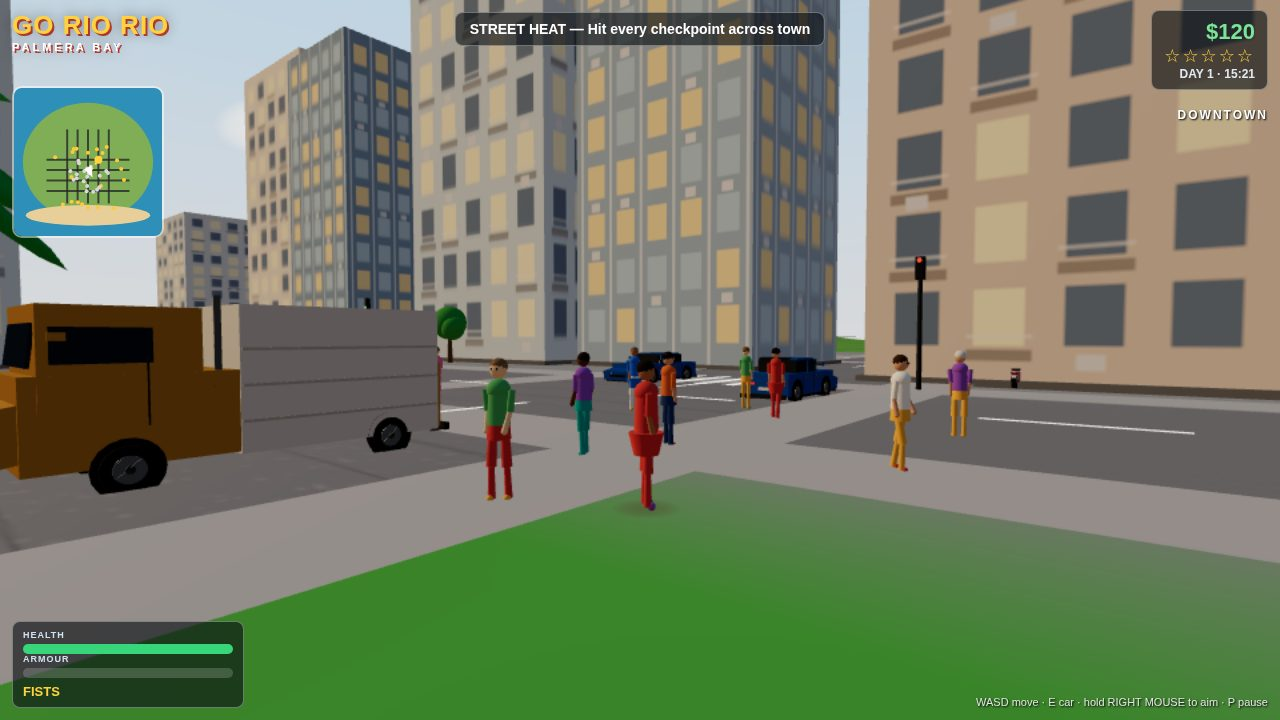
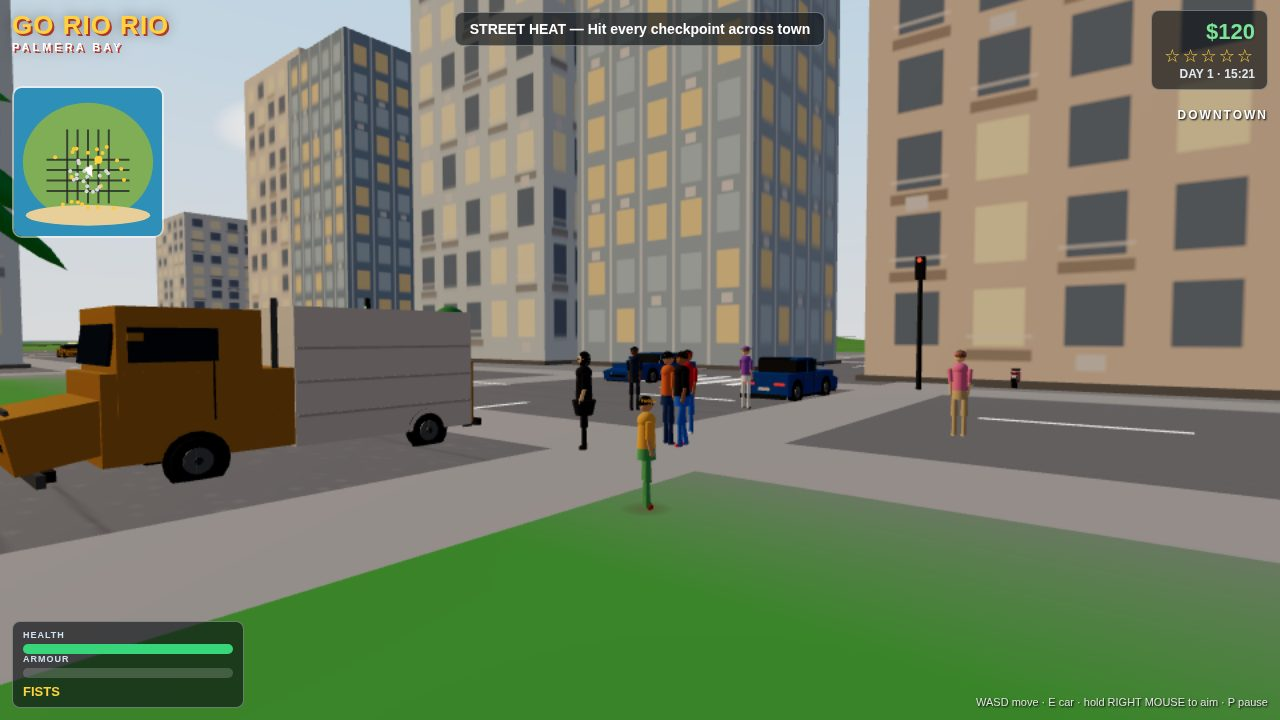
Rebuild round 10: criteria fixes + 30 character cast, fully witnessed

diff --git a/game/src/pedestrians.js b/game/src/pedestrians.js
@@ -6,7 +6,6 @@ const HAIRS=[0x2a1d12,0x14100c,0x4a3018,0x8a6a48,0xd8b13c,0xd8d8d8,0xb03a2e];
 const CLOTH=[0xd8342c,0x3c78d8,0xf2b13c,0x63b06b,0xf2f0e8,0x9a5fc0,0x2ea8a0,0xe87fa8,0x23232e,0x2b3a55,0x6e5136,0xc9b083,0xe8862e,0x7fd4c9,0xb8e62e,0x8a9a5b,0x4a5568,0x3a3f4a];
 const FL=['cap','dress','apron','hat','glasses','bald','longHair'];
 const NAMES='Lifeguard,Surfer,Tourist,Snapper,Exec,Suit,Chef,Grandma,Grandpa,Skater,Jogger,Fisher,Vendor,Keeper,Student,Gangster,Nurse,Doctor,Fireman,Beachgirl,Muscle,Waiter,Mechanic,Painter,Yogi,Builder,Sailor,Hipster,Courier,Kid'.split(',');
-// CAST->SKINS/HAIRS/CLOTH;flags 1cap 2dress 4apron 8hat 16glasses 32bald 64longHair 128kid
 const CAST=[
 [1,4,0,0,4,1],[0,4,6,2,11,64],[3,3,7,11,4,17],[2,1,12,3,10,8],[3,1,8,8,8,66],
 [0,0,9,8,8,0],[1,0,4,17,8,5],[3,5,5,5,10,2],[0,5,15,10,10,48],[1,1,8,1,0,1],
@@ -32,7 +31,7 @@ const rng=G.rng;
 G.peds=[];
 function bag(pool){
 let q=[];
-return () =>{
+return()=>{
 if(!q.length){
 q=pool.slice();
 for(let i=q.length-1;i>0;i--){const j=Math.floor(rng()*(i+1));const t=q[i];q[i]=q[j];q[j]=t}
@@ -43,7 +42,7 @@ return q.pop();
 const beach=bag(BEACH),swim=bag(SWIM),keeps=bag(KEEPS),shop=bag(SHOP),town=bag(TOWN),park=bag(PARK);
 function addPed(x,z,role,mode='walk',arch=0){
 const fig=buildFigure(outfit(arch));
-if(CAST[arch][5] & 128) fig.group.scale.setScalar(0.76);
+if(CAST[arch][5]&128) fig.group.scale.setScalar(0.76);
 fig.group.position.set(x,groundY(x,z),z);
 fig.group.rotation.y=range(rng,0,Math.PI*2);
 G.scene.add(fig.group);
@@ -64,7 +63,7 @@ const [x,z]=pick(rng,walkSpots);
 addPed(x+range(rng,-3,3),z+range(rng,-3,3),'citizen','walk',town());
 }
 for(let i=0;i<14;i++){
-const s=SHOPS[i % SHOPS.length];
+const s=SHOPS[i%SHOPS.length];
 addPed(s.x,s.z+4,'shopper','shop',shop());
 }
 for(let i=0;i<20;i++) addPed(range(rng,-130,130),range(rng,140,165),'citizen','walk',park());
@@ -89,10 +88,10 @@ G.swimmers.push({fig,x,z,phase:range(rng,0,6),arch:ai,archName:NAMES[ai]});
 }
 function newTarget(ped){
 if(ped.mode==='shop'){
-ped.shopIdx=(ped.shopIdx+1+Math.floor(range(rng,0,3))) % SHOPS.length;
+ped.shopIdx=(ped.shopIdx+1+Math.floor(range(rng,0,3)))%SHOPS.length;
 const s=SHOPS[ped.shopIdx];
 ped.tx=s.x+range(rng,-4,4);ped.tz=s.z+4;
-} else{
+}else{
 const [x,z]=pick(rng,walkSpots);
 ped.tx=x+range(rng,-4,4);ped.tz=z+range(rng,-4,4);
 if(rng()<0.25){ped.tx=range(rng,-130,130);ped.tz=range(rng,140,164)}
@@ -102,12 +101,12 @@ return{
 update(dt){
 for(const ped of G.peds){
 const f=ped.fig;
-if(ped.down>0){ped.down-=dt;f.blob.visible=false;poseFigure(f,'down',dt);if(ped.down<=0){ped.hp=60;f.group.rotation.x=0;f.blob.visible=true} continue}
+if(ped.down>0){ped.down-=dt;f.blob.visible=false;poseFigure(f,'down',dt);if(ped.down<=0){ped.hp=60;f.group.rotation.x=0;f.blob.visible=true}continue}
 if(ped.mode==='stand'){poseFigure(f,'idle',dt);continue}
 if(ped.mode==='lie') continue;
 if(ped.wait>0){ped.wait-=dt;poseFigure(f,'idle',dt);continue}
 const dx=ped.tx-ped.x,dz=ped.tz-ped.z,d=Math.hypot(dx,dz);
-if(d<1.2){ped.wait=ped.mode==='shop'?range(rng,2,5) :range(rng,0.4,2);newTarget(ped);continue}
+if(d<1.2){ped.wait=ped.mode==='shop'?range(rng,2,5):range(rng,0.4,2);newTarget(ped);continue}
 const vx=(dx/d)*ped.speed,vz=(dz/d)*ped.speed;
 ped.x+=vx*dt;ped.z+=vz*dt;
 f.group.position.set(ped.x,groundY(ped.x,ped.z),ped.z);

diff --git a/game/src/characters.js b/game/src/characters.js
@@ -44,7 +44,7 @@ const neck=new THREE.Group();neck.position.y=0.56;spine.add(neck);
 const neckM=seg(0.05,0.055,0.09,skin);neckM.position.y=0.03;neck.add(neckM);
 const head=new THREE.Group();head.position.y=0.1;neck.add(head);
 const skull=ball(0.118,skin,1.08);skull.position.y=0.115;head.add(skull);
-if(!opts.bald){const hair=ball(0.121,hairM,opts.longHair?1.32 :0.92);hair.position.set(0,opts.longHair?0.115 :0.155,-0.012);head.add(hair)}
+if(!opts.bald){const hair=ball(0.121,hairM,opts.longHair?1.32:0.92);hair.position.set(0,opts.longHair?0.115:0.155,-0.012);head.add(hair)}
 if(opts.cap){const cap=seg(0.125,0.128,0.05,accent);cap.position.y=0.185;head.add(cap);const brim=seg(0.02,0.09,0.02,accent);brim.position.set(0,0.165,0.13);brim.scale.z=0.6;head.add(brim)}
 if(opts.hat){const brim=seg(0.2,0.2,0.02,accent);brim.position.y=0.185;head.add(brim);const dome=ball(0.115,accent,0.72);dome.position.y=0.2;head.add(dome)}
 const eyeM=mat(0x14161c,0.3);
@@ -62,7 +62,7 @@ const fig={
 group:root,pelvis,spine,neck,head,
 armL:armL.joint,armR:armR.joint,elbowL:armL.elbow,elbowR:armR.elbow,
 legL:legL.joint,legR:legR.joint,kneeL:legL.elbow,kneeR:legR.elbow,
-  phase: Math.random() * 6, recoil: 0, height: FIGURE_HEIGHT,
+phase:Math.random()*6,recoil:0,height:FIGURE_HEIGHT,
 };
 root.traverse((o)=>{o.userData.partOfFigure=true});
 
@@ -84,7 +84,7 @@ return fig;
 export function poseFigure(fig,mode,dt,speed=0,aimPitch=0){
 fig.recoil=Math.max(0,fig.recoil-dt*6);
 const t=performance.now()*0.001;
-const sw=mode==='walk'?Math.min(1,speed/5) :0;
+const sw=mode==='walk'?Math.min(1,speed/5):0;
 if(mode==='walk') fig.phase+=dt*(4+speed*1.35);
 const s=Math.sin(fig.phase),c=Math.cos(fig.phase);
 const setLimb=(leg,knee,v,kv)=>{leg.rotation.x=v;knee.rotation.x=kv};
@@ -95,7 +95,7 @@ fig.elbowL.rotation.x=-0.4;fig.elbowR.rotation.x=-0.4;
 fig.pelvis.position.y=0.55;
 return;
 }
-fig.pelvis.position.y=0.98+(mode==='walk'?Math.abs(c)*0.045*sw :Math.sin(t*1.7)*0.008);
+fig.pelvis.position.y=0.98+(mode==='walk'?Math.abs(c)*0.045*sw:Math.sin(t*1.7)*0.008);
 if(mode==='swim'){
 setLimb(fig.legL,fig.kneeL,s*0.6,0.5);setLimb(fig.legR,fig.kneeR,-s*0.6,0.5);
 fig.armL.rotation.x=c*0.9-0.4;fig.armR.rotation.x=-c*0.9-0.4;
@@ -103,7 +103,7 @@ fig.elbowL.rotation.x=-0.5;fig.elbowR.rotation.x=-0.5;
 fig.spine.rotation.x=0.5;
 return;
 }
-fig.spine.rotation.x=mode==='aim'?0.06 :0;
+fig.spine.rotation.x=mode==='aim'?0.06:0;
 if(mode==='walk'||mode==='idle'){
 setLimb(fig.legL,fig.kneeL,s*0.62*sw,Math.max(0,-s)*0.7*sw);
 setLimb(fig.legR,fig.kneeR,-s*0.62*sw,Math.max(0,s)*0.7*sw);
@@ -129,4 +129,8 @@ fig.group.rotation.x=-Math.PI/2+0.08;
 }else if(fig.group.rotation.x!==0){
 fig.group.rotation.x=0;
 }
+}
+
+export function figureBounds(){
+return{minX:-0.24,maxX:0.24,minY:0,maxY:FIGURE_HEIGHT,minZ:-0.16,maxZ:0.2};
 }
